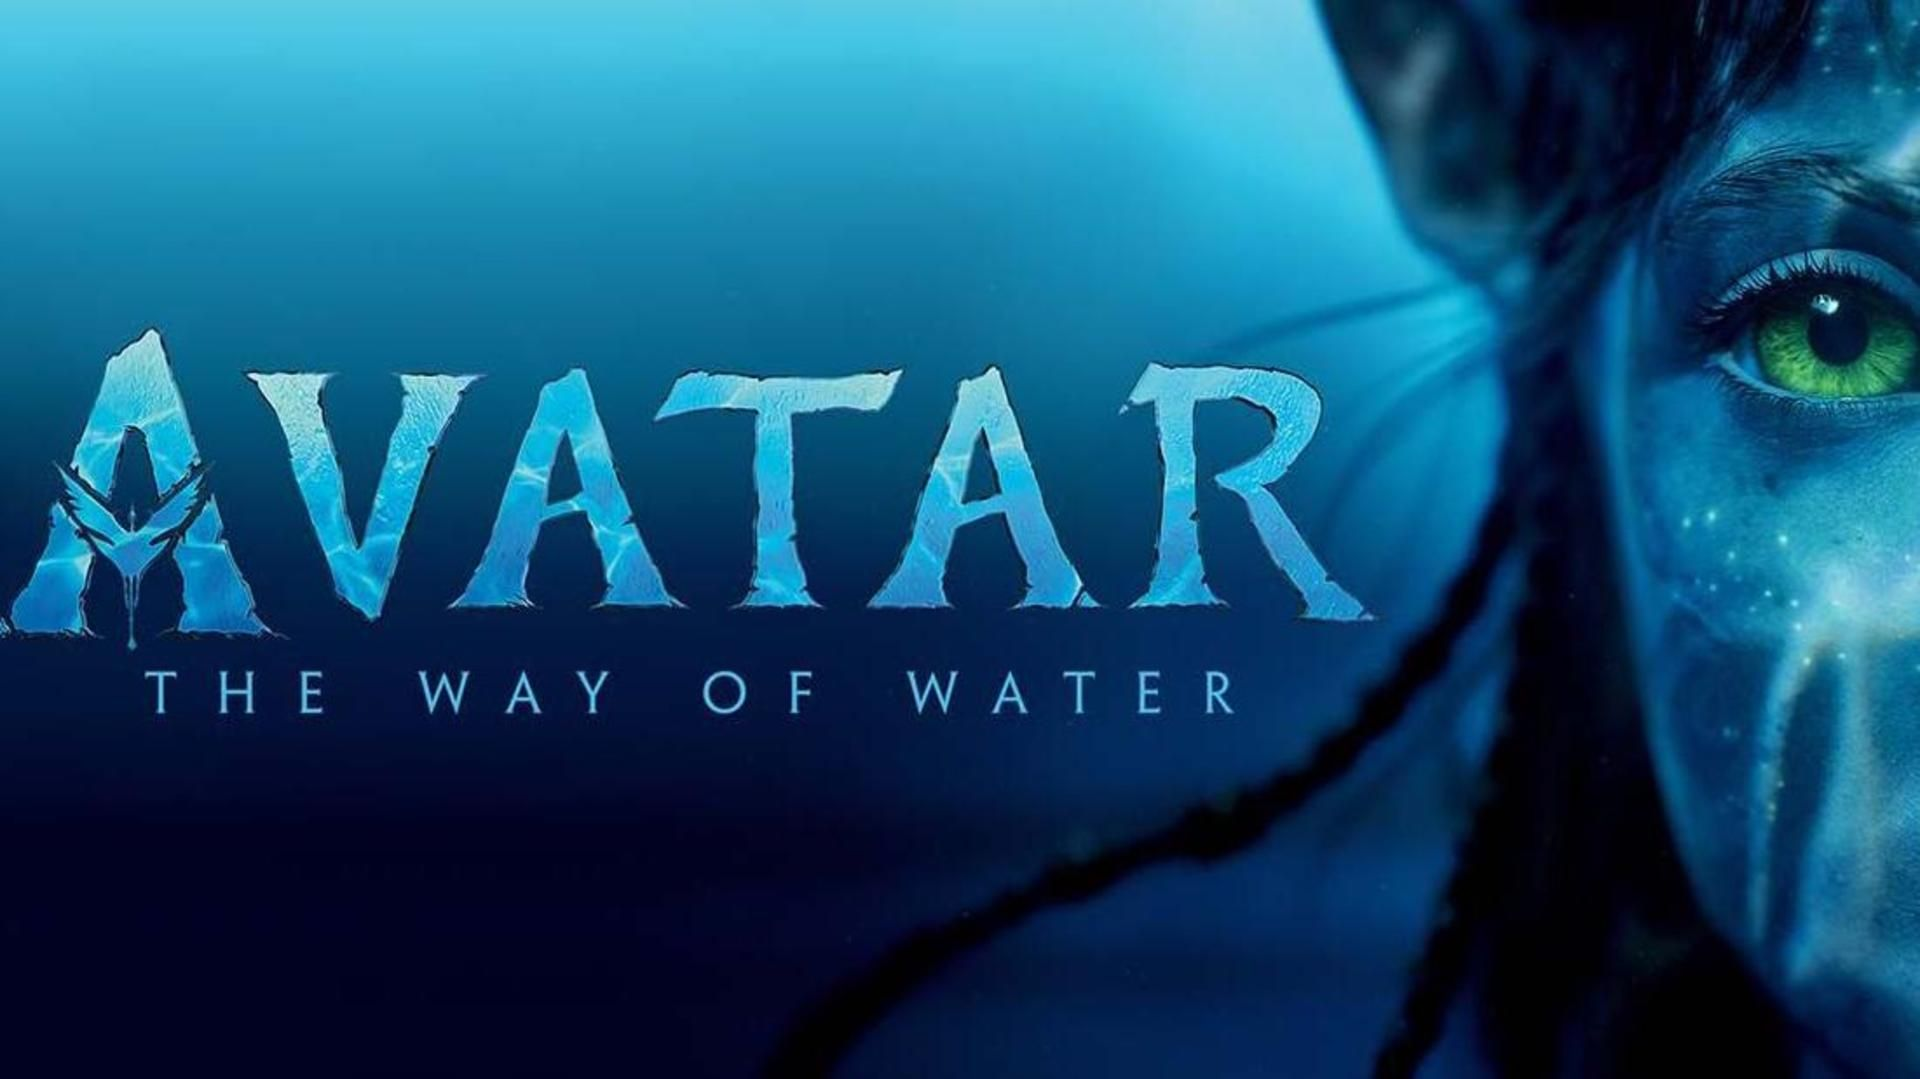
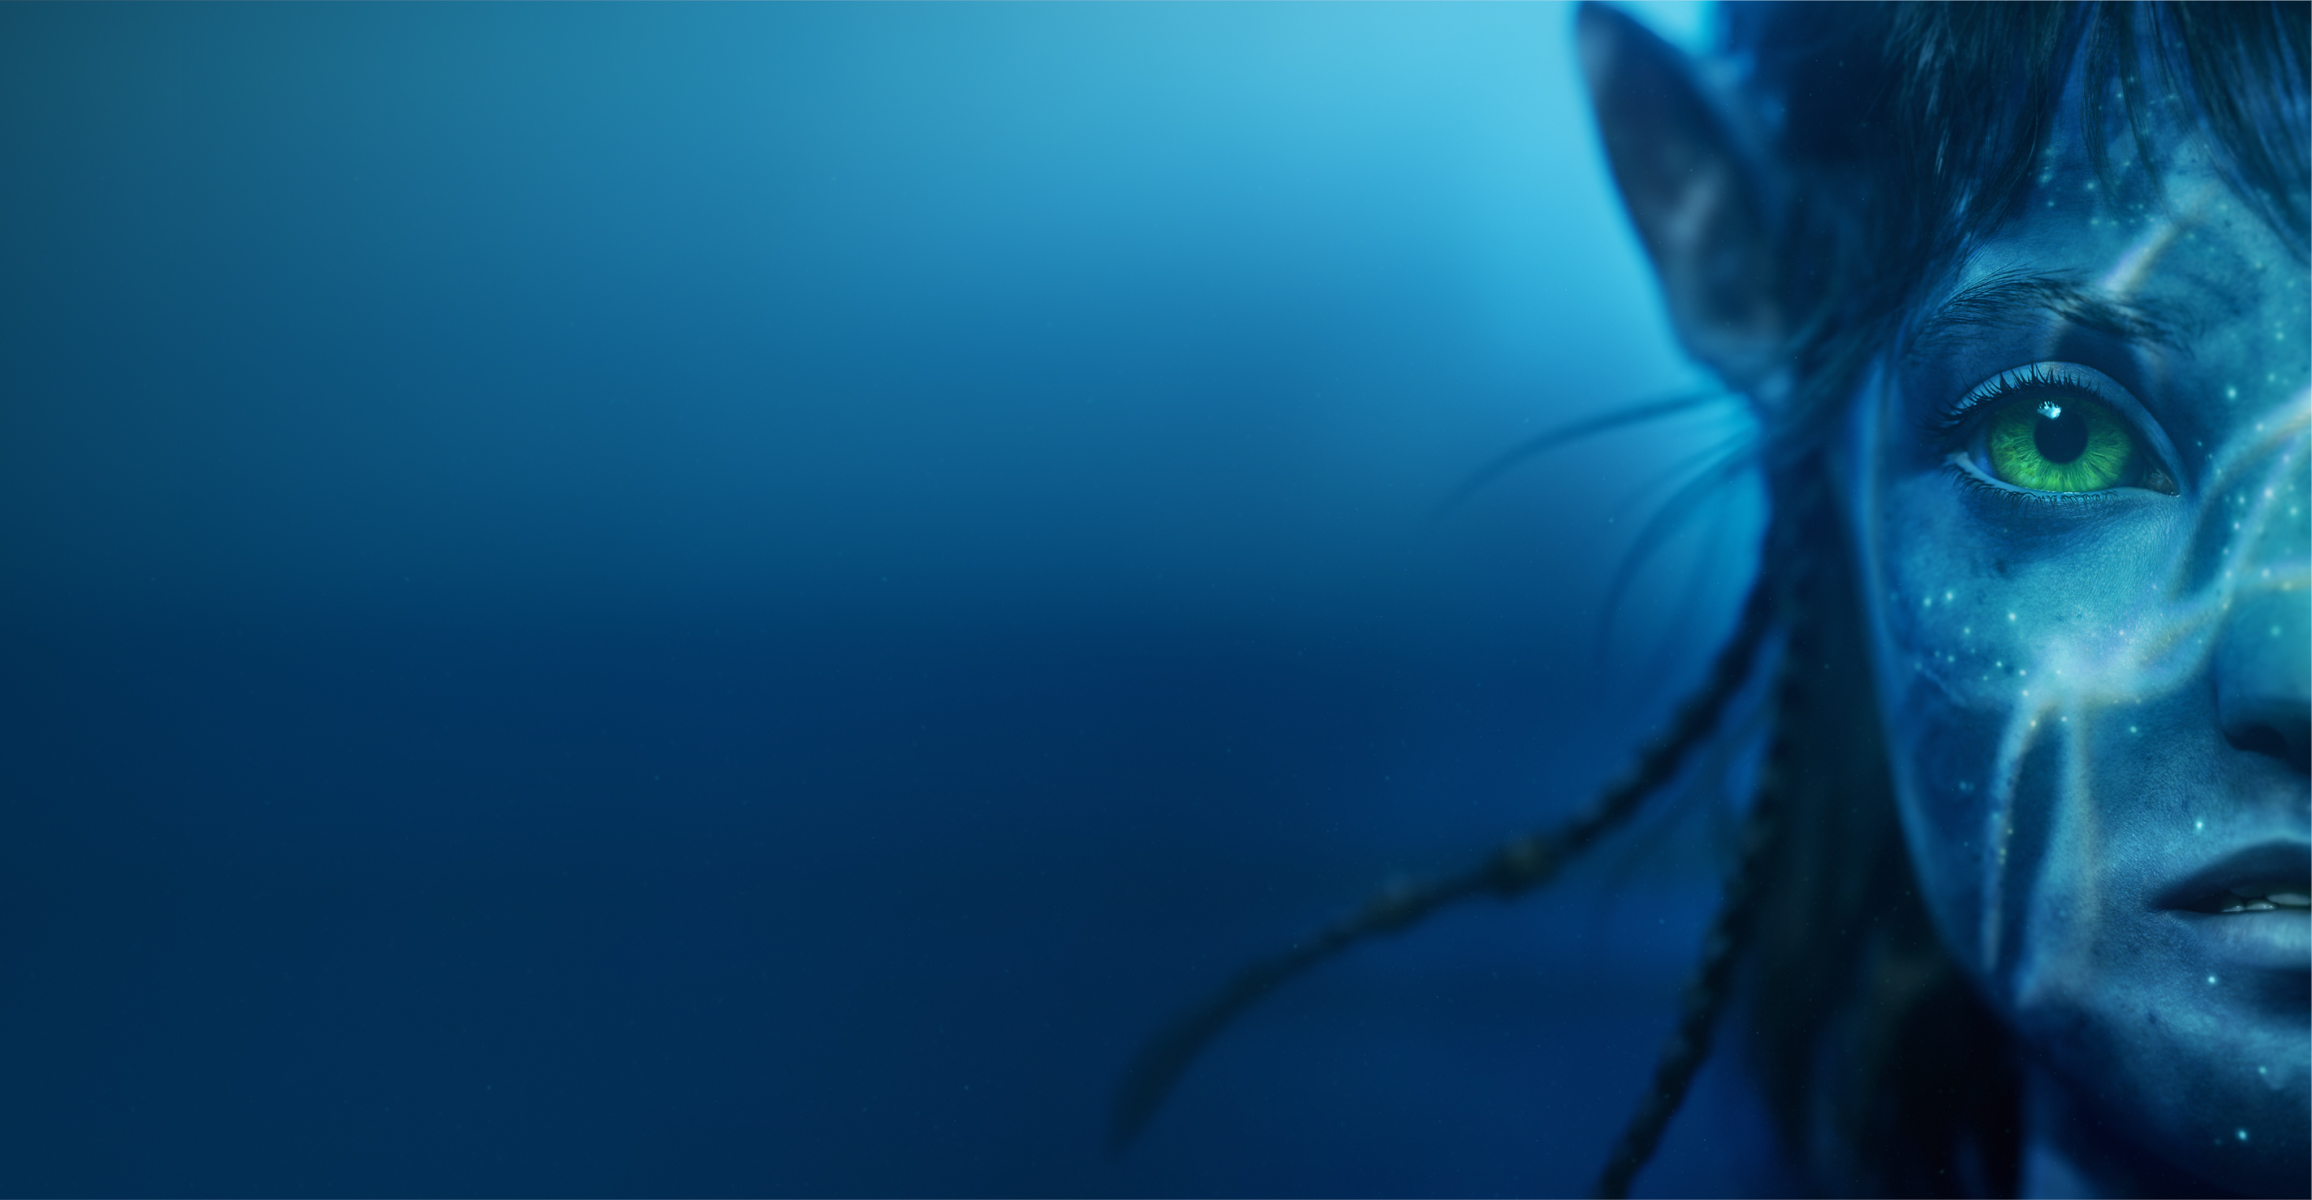
css added

diff --git a/styles/style.css b/styles/style.css
@@ -5,9 +5,9 @@
   --cr--white: #ffffff;
   --cr--bg-color: #f2e3ac;
   --cr--red: rgb(255, 32, 80);
-  --cr--black: rgba(0, 0, 0, 0.74);
-  --cr--blue: rgb(2, 48, 163);
-  --cr--seat: rgb(83, 83, 83);
+  --cr--black: rgba(0, 0, 0, 0.733);
+  --cr--blue: rgba(208, 255, 0, 0.171);
+  --cr--seat: rgba(78, 78, 78, 0.288);
   --cr--green: rgb(0, 203, 0);
 
   --light-shadow: 0 5px 15px rgba(0, 0, 0, 0.1);
@@ -54,7 +54,6 @@ body {
   gap: 2rem;
   background-color: var(--cr--black);
   max-width: 42rem;
-
   padding: 2rem 2rem;
   display: flex;
   flex-direction: column;
@@ -67,7 +66,7 @@ body {
   padding: 0.4rem 2rem;
   background-color: var(--cr--blue);
   gap: 5rem;
-  border-radius: 1rem;
+  border-radius: 0.7rem;
 }
 
 .info-items {
@@ -75,14 +74,20 @@ body {
   align-items: center;
   gap: 0.3rem;
 }
-
-.screen {
-  border-top: 30px solid var(--cr--white);
-  border-left: 45px solid transparent;
-  border-right: 45px solid transparent;
-  width: 325px;
+.screen-container {
+  perspective: 500px;
 }
-
+.screen {
+  background: #e9e7e7;
+  height: 50px;
+  width: 100%;
+  margin: 15px 0;
+  transform: rotateX(-45deg);
+  box-shadow: 0px 10px 20px 5px rgba(255, 255, 255, 0.253);
+}
+.screen {
+  margin: 2rem auto;
+}
 .seats,
 .total {
   color: var(--cr--gold);
@@ -97,6 +102,7 @@ body {
   border-top-right-radius: 20px;
   border-top-left-radius: 20px;
   cursor: pointer;
+  border: 1px solid black;
 }
 .seat:not(.seat.occupied):hover {
   box-shadow: 0px 0px 10px 1px rgba(5, 250, 107, 0.589);
@@ -105,10 +111,6 @@ body {
 .row {
   display: flex;
   justify-content: center;
-}
-
-.screen {
-  margin: 2rem auto;
 }
 
 .row.seat {
@@ -130,4 +132,17 @@ body {
   .movie {
     padding: 2rem 0rem;
   }
+}
+.movie-selection {
+  padding: 1rem 1rem;
+  margin-top: -1rem;
+  border-radius: 0.5rem;
+  background-color: #f5171738;
+  color: var(--cr--white);
+}
+label {
+  letter-spacing: 0.4rem;
+}
+option {
+  background-color: #000000;
 }

diff --git a/script/app.js b/script/app.js
@@ -23,7 +23,7 @@ movieEl.addEventListener("change", function () {
   updatemessage();
 
   if (movieEl.value == 100) {
-    body.style.backgroundImage = "url(https://i.ibb.co/ccnPwDd/avatar.jpg)";
+    body.style.backgroundImage = "url(https://i.ibb.co/1G9md7T/avatar.jpg)";
   } else if (movieEl.value == 200) {
     body.style.backgroundImage = "url(https://i.ibb.co/Gt4M9cY/sp.jpg)";
   } else if (movieEl.value == 300) {
@@ -51,8 +51,6 @@ seats.forEach((item) => {
   });
   seatcount = document.querySelectorAll(".row.seat.selected").length;
   seatscountEl.innerText = seatcount;
-  price = Number(movieEl.value);
-  total = seatcount * price;
   totalEl.innerText = total;
   console.log(total);
 });

diff --git a/index.html b/index.html
@@ -12,8 +12,8 @@
   </head>
   <body id="body">
     <div class="movie">
+      <label for="movie">SELECT A MOVIE</label>
       <div class="container-movie">
-        <label for="movie">select a movie</label>:
         <select id="movie-selection" class="movie-selection">
           <option value="0">pick a movie</option>
           <option value="100">avatar 2 (price: ₹100)</option>
